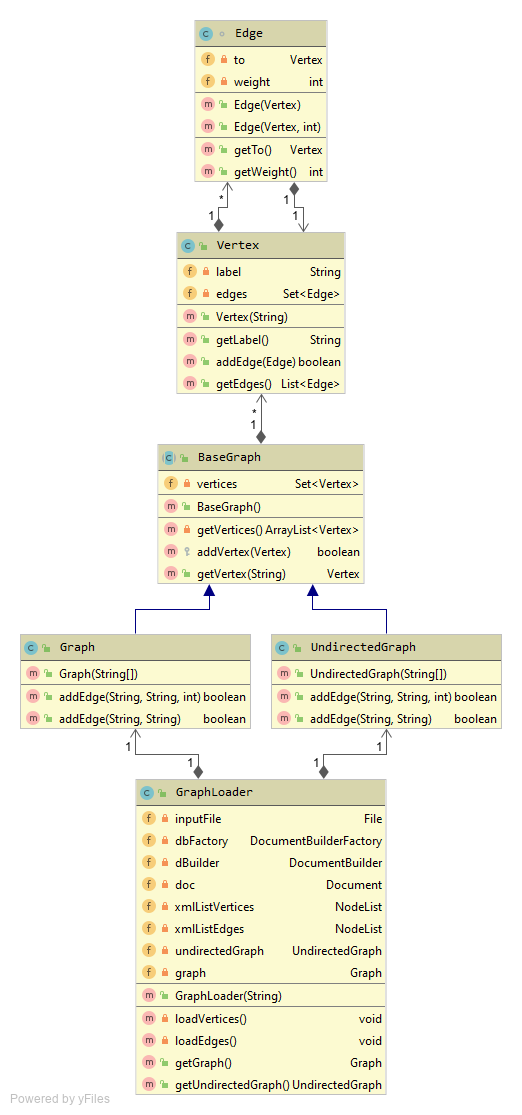
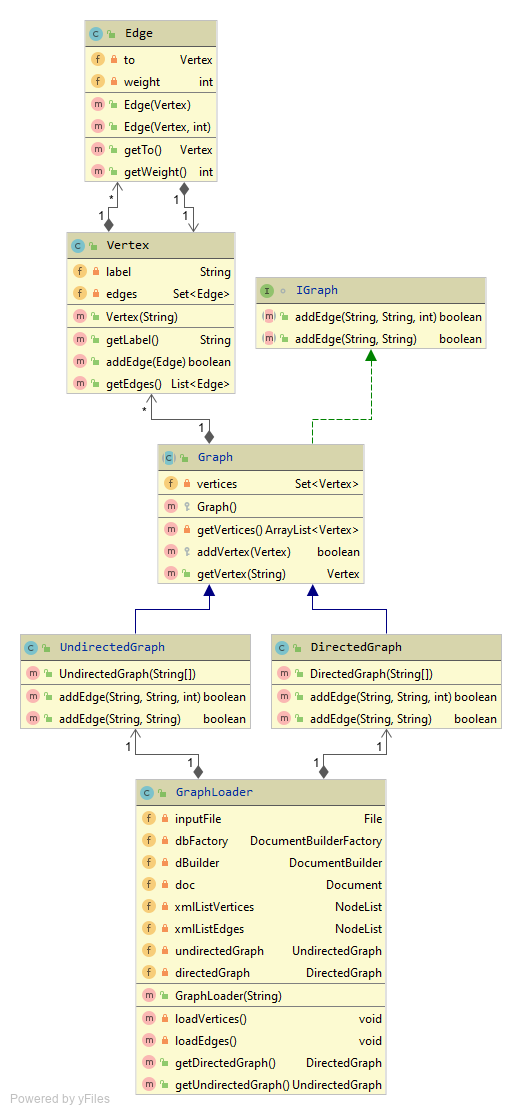
Renamed baseclass to Graph and Graph to DirectedGraph for better and intuitive understanding

diff --git a/src/de/kilitr/Graph.java b/src/de/kilitr/Graph.java
@@ -1,40 +1,20 @@
 package de.kilitr;
 
-/**
- * An implementation of the data structure Graph (here a directed Graph). Can be both weighted and unweighted with this
- * implementation.
- * <p>
- * Unweighted means, that all Edges by default get <i>weight = 1</i> assigned.
- * </p>
- */
-public class Graph extends BaseGraph {
+import java.util.ArrayList;
+import java.util.HashSet;
+import java.util.List;
+import java.util.Set;
 
-    /**
-     * @param verticeLabels An array, containing all ID's / labels of the vertices, that should be contained in
-     *                      the Graph.
-     */
-    public Graph(String[] verticeLabels) {
-        super();
-        for (String verticeLabel : verticeLabels) {
-            this.addVertex(new Vertex(verticeLabel));
-        }
-    }
-
+interface IGraph {
     /**
      * Connects two vertices in one direction with custom weight.
      *
-     * @param labelSource      label of vertex that this edge starts from.
-     * @param labelDestination label of vertex that this edge leads to.
-     * @param weight           The custom weight of this Edge.
-     * @return true, if edge was successfully added, otherwise false.
+     * @param from   Label of vertex that this edge starts from.
+     * @param to     Label of vertex that this edge leads to.
+     * @param weight The custom weight of this Edge.
+     * @return True, if edge was successfully added, otherwise false.
      */
-    public boolean addEdge(String labelSource, String labelDestination, int weight) {
-        Vertex source = getVertex(labelSource);
-        Vertex destination = getVertex(labelDestination);
-        if (source == null || destination == null) return false;
-        source.addEdge(new Edge(destination, weight));
-        return true;
-    }
+    boolean addEdge(String from, String to, int weight);
 
     /**
      * Connects two vertices in one direction with unweighted Edge.
@@ -42,11 +22,47 @@ public class Graph extends BaseGraph {
      *     Note: Sets weight of edge to 1. So will only work for unweighted graph if no Edge has been assigned a
      *     different weight!
      * </p>
-     * @param labelSource label of vertex that this edge starts from.
-     * @param labelDestination label of vertex that this edge leads to.
-     * @return true, if edge was successfully added, otherwise false.
+     * @param from Label of vertex that this edge starts from.
+     * @param to Label of vertex that this edge leads to.
+     * @return True, if edge was successfully added, otherwise false.
      */
-    public boolean addEdge(String labelSource, String labelDestination) {
-        return addEdge(labelSource, labelDestination, 1);
+    boolean addEdge(String from, String to);
+    // Vertex getVertex(String label);
+    // TODO: List<Edge> getShortestPath(Vertex src, Vertex dest);
+}
+
+/**
+ * The baseclass for all following Graph data structures, that contains the functionality that applies to both, directed
+ * and undirected Graphs.
+ */
+public abstract class Graph implements IGraph {
+    private Set<Vertex> vertices;
+
+    protected Graph() {
+        vertices = new HashSet<>();
+    }
+
+    private ArrayList<Vertex> getVertices() {
+        return new ArrayList<>(vertices);
+    }
+
+    protected boolean addVertex(Vertex vertex) {
+        return vertices.add(vertex);
+    }
+
+
+    /**
+     * Get a vertex object by the label / id.
+     * @param label the label (CLI = id) of the desired vertex.
+     * @return Vertex if vertex with the given label exists, otherwise null.
+     */
+    public Vertex getVertex(String label) {
+        List<Vertex> vertices = getVertices();
+        for (Vertex vert : vertices) {
+            if (vert.getLabel().equals(label)) {
+                return vert;
+            }
+        }
+        return null;
     }
 }

diff --git a/src/de/kilitr/DirectedGraph.java b/src/de/kilitr/DirectedGraph.java
@@ -1,0 +1,53 @@
+package de.kilitr;
+
+/**
+ * An implementation of the data structure Graph (here a directed Graph). Can be both weighted and unweighted with this
+ * implementation.
+ * <p>
+ * Unweighted means, that all Edges by default get <i>weight = 1</i> assigned.
+ * </p>
+ */
+public class DirectedGraph extends Graph {
+
+    /**
+     * @param verticeLabels An array, containing all ID's / labels of the vertices, that should be contained in
+     *                      the Graph.
+     */
+    public DirectedGraph(String[] verticeLabels) {
+        super();
+        for (String verticeLabel : verticeLabels) {
+            this.addVertex(new Vertex(verticeLabel));
+        }
+    }
+
+    /**
+     * Connects two vertices in one direction with custom weight.
+     *
+     * @param labelSource      label of vertex that this edge starts from.
+     * @param labelDestination label of vertex that this edge leads to.
+     * @param weight           The custom weight of this Edge.
+     * @return true, if edge was successfully added, otherwise false.
+     */
+    public boolean addEdge(String labelSource, String labelDestination, int weight) {
+        Vertex source = getVertex(labelSource);
+        Vertex destination = getVertex(labelDestination);
+        if (source == null || destination == null) return false;
+        source.addEdge(new Edge(destination, weight));
+        return true;
+    }
+
+    /**
+     * Connects two vertices in one direction with unweighted Edge.
+     * <p>
+     * Note: Sets weight of edge to 1. So will only work for unweighted graph if no Edge has been assigned a
+     * different weight!
+     * </p>
+     *
+     * @param labelSource      label of vertex that this edge starts from.
+     * @param labelDestination label of vertex that this edge leads to.
+     * @return true, if edge was successfully added, otherwise false.
+     */
+    public boolean addEdge(String labelSource, String labelDestination) {
+        return addEdge(labelSource, labelDestination, 1);
+    }
+}

diff --git a/src/de/kilitr/GraphLoader.java b/src/de/kilitr/GraphLoader.java
@@ -25,7 +25,7 @@ public class GraphLoader {
     private NodeList xmlListEdges;
 
     private UndirectedGraph undirectedGraph;
-    private Graph graph;
+    private DirectedGraph directedGraph;
 
     /**
      * @param filename The filename / path of the graphml file to process.
@@ -56,7 +56,7 @@ public class GraphLoader {
             }
         }
         undirectedGraph = new UndirectedGraph(vertices);
-        graph = new Graph(vertices);
+        directedGraph = new DirectedGraph(vertices);
     }
 
     private void loadEdges() {
@@ -75,7 +75,7 @@ public class GraphLoader {
                                 .getTextContent()
                 );
 
-                graph.addEdge(source, target, e_weight);
+                directedGraph.addEdge(source, target, e_weight);
                 undirectedGraph.addEdge(source, target, e_weight);
             }
         }
@@ -84,13 +84,13 @@ public class GraphLoader {
     /**
      * @return The directed graph, described by the provided graphml file.
      * @see de.kilitr.GraphLoader#GraphLoader(String)
-     * @see de.kilitr.Graph
+     * @see DirectedGraph
      */
-    public Graph getGraph() {
-        if(this.graph == null) {
+    public DirectedGraph getDirectedGraph() {
+        if (this.directedGraph == null) {
             // throw new Exception("TODO: Custom Exception...");
         }
-        return this.graph;
+        return this.directedGraph;
     }
 
     /**

diff --git a/src/de/kilitr/UndirectedGraph.java b/src/de/kilitr/UndirectedGraph.java
@@ -7,7 +7,7 @@ package de.kilitr;
  * Unweighted means, that all Edges by default get <i>weight = 1</i> assigned.
  * </p>
  */
-public class UndirectedGraph extends BaseGraph {
+public class UndirectedGraph extends Graph {
 
     /**
      * @param verticeLabels An array, containing all ID's / labels of the vertices, that should be contained in
